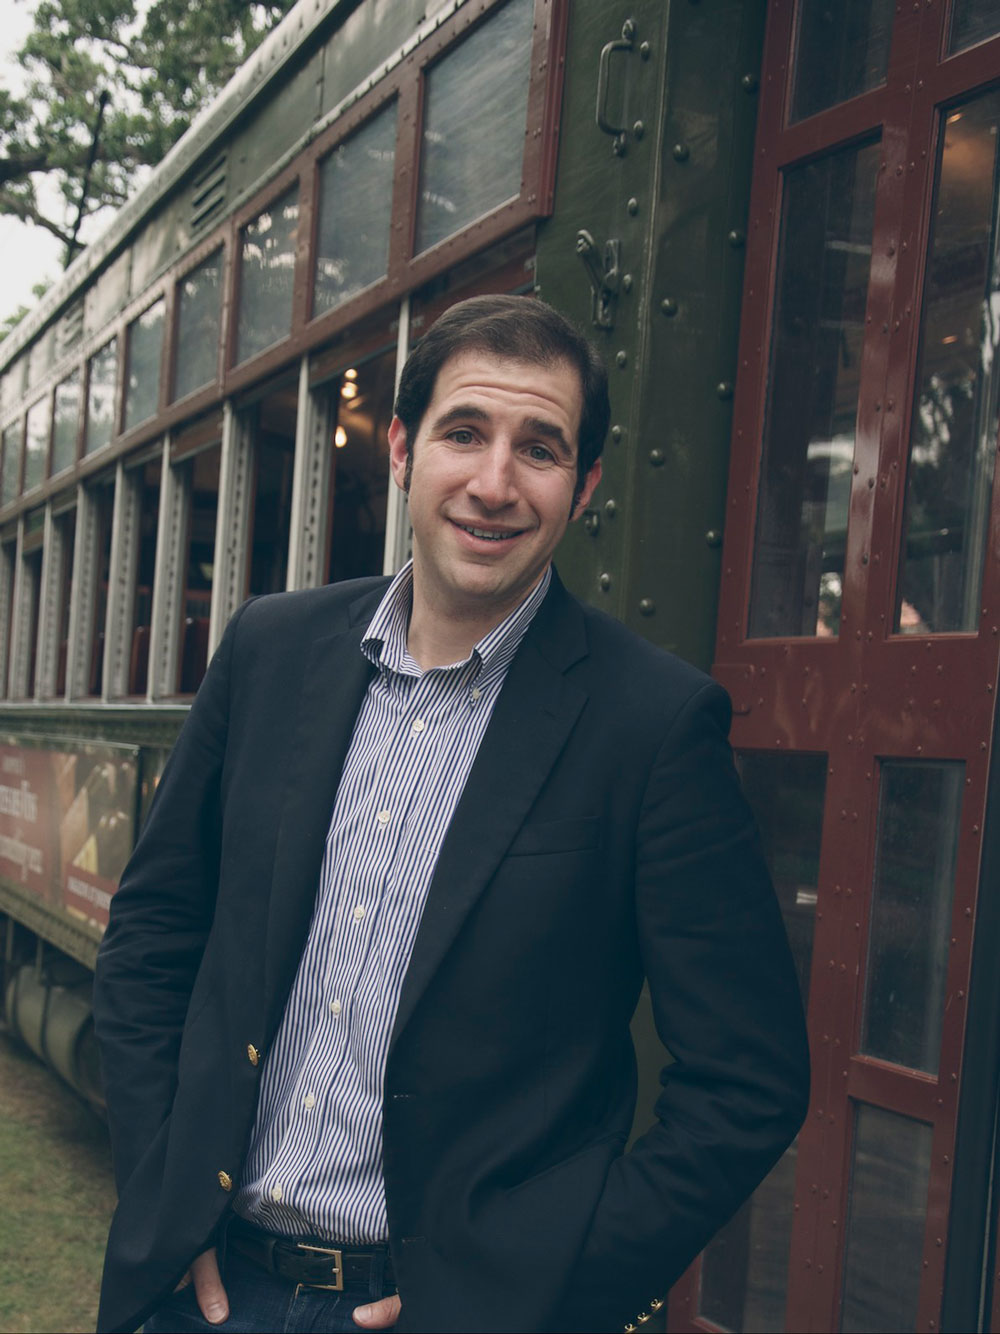
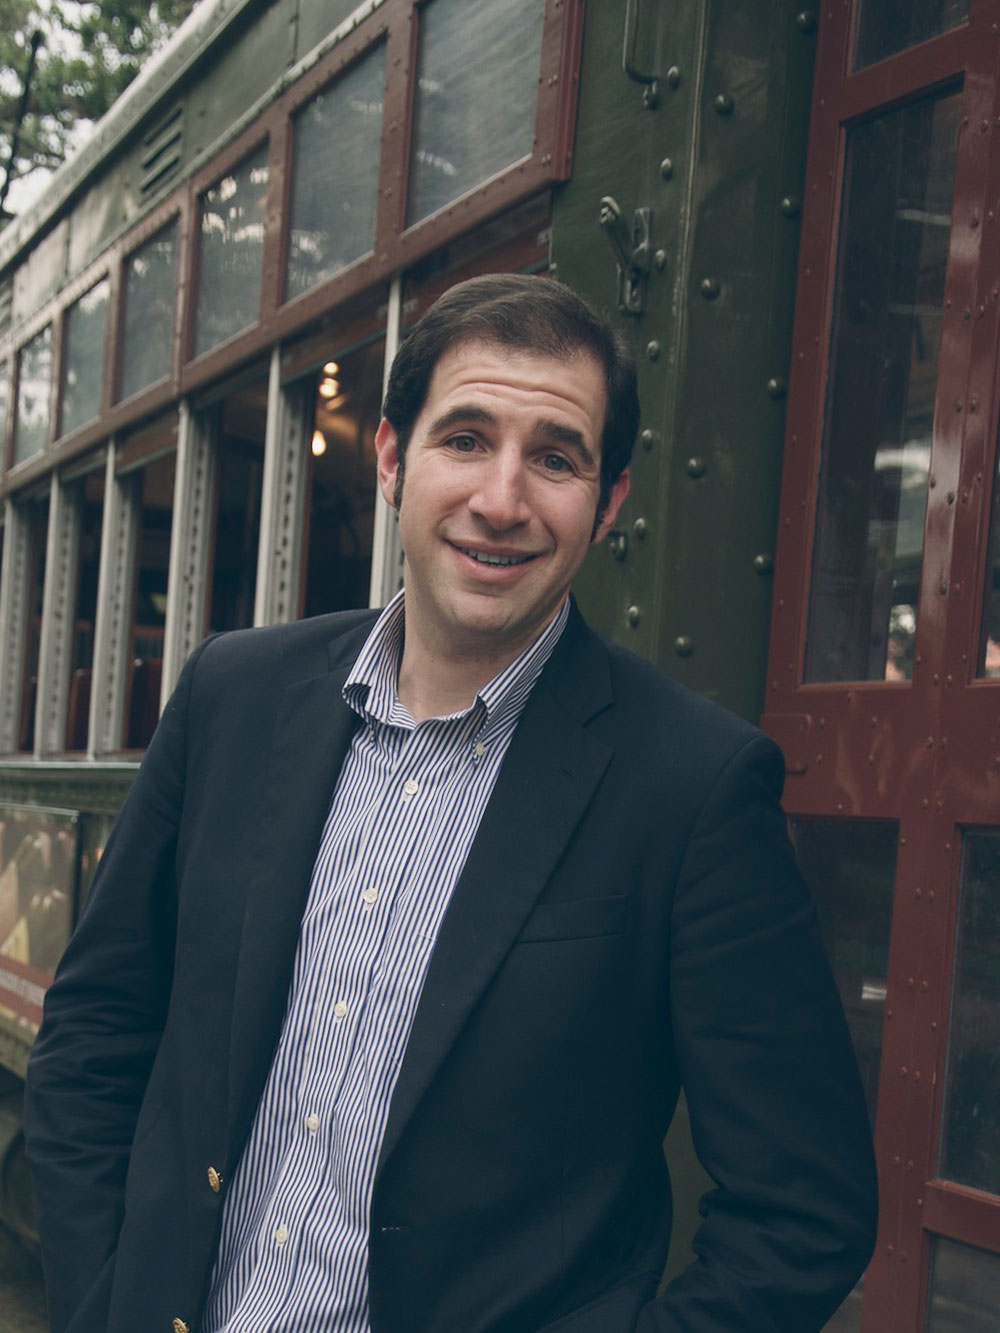
- add smooth scrolling
- change jason's photo

diff --git a/js/scripts.js b/js/scripts.js
@@ -1,0 +1,36 @@
+$(document).ready(function () {
+
+    //make sections *at least* as tall as the viewport
+    var winheight = $(window).height();
+    $('section').each(function(){
+        var $this = $(this);
+        if ($this.height() <= winheight) {
+            $this.css('min-height', winheight);
+        }
+    });
+    
+    //fitvid
+    $(".video").fitVids();
+
+    // Animate Scroll
+    $('.to-top').click(function(event){
+      event.preventDefault();
+      $('html, body').animate({scrollTop: 0}, 300);
+    });
+
+  $('a[href*=#]:not([href=#])').click(function() {
+      if (location.pathname.replace(/^\//,'') === this.pathname.replace(/^\//,'') || location.hostname === this.hostname) {
+          var target = $(this.hash);
+          target = target.length ? target : $('[name=' + this.hash.slice(1) +']');
+             if (target.length) {
+               $('html,body').animate({
+                   scrollTop: target.offset().top
+              }, 300);
+              return false;
+          }
+      }
+  });
+
+  // Typer
+    $('[data-typer-targets]').typer();
+});

diff --git a/index.html b/index.html
@@ -257,30 +257,8 @@
 	<script src="js/shynav-ck.js"></script>
 	<script src="js/ss-social.js"></script>
 	<script src="js/jquery.typer.js"></script>
-	<script type="text/javascript">
-		$(document).ready(function () {
+	<script src="js/scripts-ck.js"></script>
 
-		    //make sections *at least* as tall as the viewport
-		    var winheight = $(window).height();
-		    $('section').each(function(){
-		        var $this = $(this);
-		        if ($this.height() <= winheight) {
-		            $this.css('min-height', winheight);
-		        }
-		    })
-
-		    $(".video").fitVids();
-
-		    // Animate Scroll
-		    $('.to-top').click(function(event){
-		    	event.preventDefault();
-		    	$('html, body').animate({scrollTop: 0}, 300);
-		    })
-
-		    $('[data-typer-targets]').typer();
-		});
-	</script>
-	
 <!-- End Document
 ================================================== -->
 </body>

diff --git a/js/scripts-ck.js b/js/scripts-ck.js
@@ -1,0 +1,1 @@
+$(document).ready(function(){var e=$(window).height();$("section").each(function(){var t=$(this);t.height()<=e&&t.css("min-height",e)});$(".video").fitVids();$(".to-top").click(function(e){e.preventDefault();$("html, body").animate({scrollTop:0},300)});$("a[href*=#]:not([href=#])").click(function(){if(location.pathname.replace(/^\//,"")===this.pathname.replace(/^\//,"")||location.hostname===this.hostname){var e=$(this.hash);e=e.length?e:$("[name="+this.hash.slice(1)+"]");if(e.length){$("html,body").animate({scrollTop:e.offset().top},300);return!1}}});$("[data-typer-targets]").typer()});
